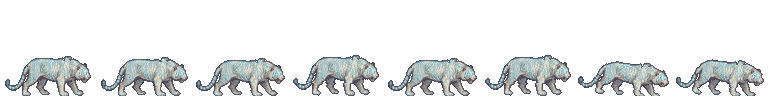
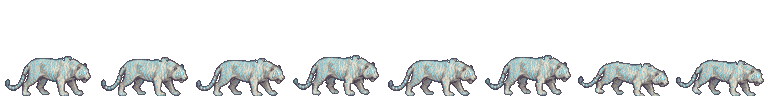
아기 호랑이 새 그림: 사용자 AI 그림 (몸 길이 약 28px), --smooth 는 줄인 그림에서 색을 고름
Claude-Session: https://claude.ai/code/session_01GYp4h2jfzRGtKGv7ZvZ491

diff --git a/tools/import_ai_monster.py b/tools/import_ai_monster.py
@@ -69,6 +69,7 @@
 밀목 (그림 원본: /mnt/project-files/design/milmok-tall/ai/ai_*.png, 사용자 AI 그림 2026-10-04, 새 크기)
   ai_white_tiger.png --kind tiger --backdrop --smooth --colors 32 --eyes 0.938,0.398 --eye-color 150,235,255
   ai_shadow_wolf.png --kind wolf --width 42 --colors 24 --eyes 0.916,0.369 --eye-size 1 --eye-color 120,240,255
+  ai_baby_tiger.png --kind baby_tiger --colors 24 --smooth --width 28
     (초록 바탕. 줄무늬가 칸마다 고르면 점으로 깨져서 --smooth, 빛나는 눈은 줄이면 사라져서 다시 찍음)
 """
 import argparse
@@ -370,13 +371,15 @@ def clear_backdrop(im, tol=48):
 
 
 BACKDROP = False
-SMOOTH = False
+SMOOTH = 0
 
 
 def smooth_pixelize(fig, pal_img, w, h):
     """잔무늬 (백호 줄무늬)가 많은 큰 그림은 칸마다 고르는 pixelize 가 얼룩덜룩한 점이 된다 (--smooth).
-    부드럽게 줄인 뒤 팔레트로 맞춰 무늬가 색 덩어리로 남게 (build_bus 와 같은 방식)."""
+    부드럽게 줄인 뒤 그 작은 그림에서 고른 색으로 맞춰 무늬가 색 덩어리로 남게. 큰 그림에서 고른 팔레트는
+    까만 줄 · 테두리 색이 많아서 작은 아기가 거무튀튀해진다 (아기 호랑이)."""
     small = fig.resize((w, h), Image.LANCZOS)
+    pal_img = small.convert("RGB").quantize(SMOOTH, method=Image.Quantize.FASTOCTREE)
     body = small.convert("RGB").quantize(palette=pal_img, dither=Image.Dither.NONE).convert("RGBA")
     body.putalpha(small.getchannel("A").point(lambda v: 255 if v > 128 else 0))
     return body
@@ -718,7 +721,7 @@ def main():
     a = ap.parse_args()
     global BACKDROP, SMOOTH
     BACKDROP = a.backdrop
-    SMOOTH = a.smooth
+    SMOOTH = a.colors if a.smooth else 0
     if KINDS.get(a.kind, {}).get("cell"):
         # 밀목부터는 종류마다 칸 크기가 다르다 (늑대 48 · 백호 96 · 아기 32)
         global CELL
